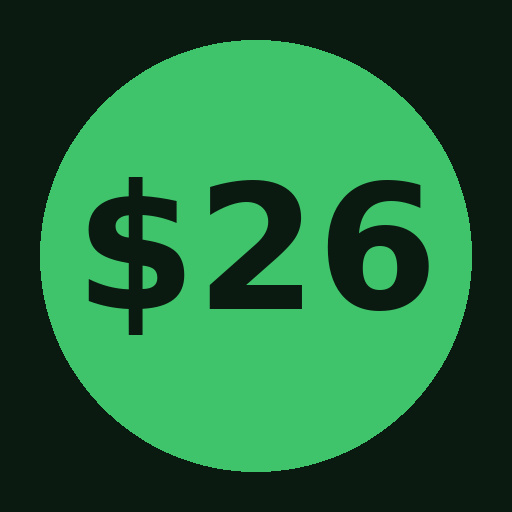
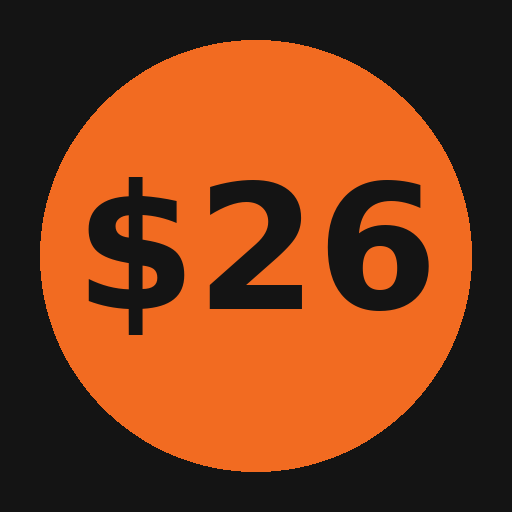
Retheme to RTO 4 U orange and charcoal
Claude-Session: https://claude.ai/code/session_01FVeAXAih2xzXBwg2R87W71

diff --git a/public/index.html b/public/index.html
@@ -8,8 +8,8 @@
 <link rel="icon" href="dive-logo.png">
 <style>
 :root{
-  --bg:#0d1a12; --panel:#14261b; --panel2:#1a3123; --line:#25402f;
-  --ink:#eef5ef; --muted:#9db3a3; --green:#4cc36a; --red:#ff6b5e; --gold:#f2c14e;
+  --bg:#141414; --panel:#1f1f1f; --panel2:#2a2a2a; --line:#383838;
+  --ink:#f4f1ed; --muted:#a8a29a; --green:#f26b21; --red:#ff6b5e; --gold:#f2c14e;
   --radius:14px;
 }
 *{box-sizing:border-box}
@@ -25,7 +25,7 @@ h1{margin:0;font-size:24px;letter-spacing:.2px}
 .stat span{color:var(--muted);font-size:12px}
 nav{display:flex;gap:6px;position:sticky;top:0;background:var(--bg);padding:8px 0;z-index:5;overflow-x:auto}
 nav button{flex:1;min-width:84px;background:var(--panel);color:var(--muted);border:1px solid var(--line);border-radius:999px;padding:9px 12px;font:inherit;font-weight:600;cursor:pointer}
-nav button.on{background:var(--green);color:#06210f;border-color:var(--green)}
+nav button.on{background:var(--green);color:#1a0b02;border-color:var(--green)}
 .sortbar{display:flex;gap:6px;align-items:center;margin:8px 0;flex-wrap:wrap;color:var(--muted);font-size:13px}
 .sortbar button{background:transparent;color:var(--muted);border:1px solid var(--line);border-radius:8px;padding:5px 9px;font:inherit;cursor:pointer}
 .sortbar button.on{color:var(--ink);border-color:var(--green)}
@@ -51,7 +51,7 @@ nav button.on{background:var(--green);color:#06210f;border-color:var(--green)}
 .foot{display:grid;grid-template-columns:repeat(3,1fr);gap:8px;margin-top:10px;border-top:1px solid var(--line);padding-top:12px}
 .foot div{font-size:12px;color:var(--muted)}
 .foot b{display:block;color:var(--ink);font-size:16px}
-.pos{color:var(--green)!important}.neg{color:var(--red)!important}
+.pos{color:#4cc36a!important}.neg{color:var(--red)!important}
 .pill{display:inline-block;font-size:12px;padding:2px 8px;border-radius:999px;background:var(--panel2);color:var(--muted);margin-top:8px}
 table{width:100%;border-collapse:collapse;font-size:13.5px}
 th,td{padding:8px 6px;text-align:right;border-bottom:1px solid var(--line);white-space:nowrap}
@@ -93,16 +93,16 @@ table.ls td:first-child,table.ls th:first-child{text-align:left;font-weight:700}
 .gl.in{color:var(--ink)}
 .gl .liveTag{color:var(--red);font-weight:700;margin-right:6px}
 @media (min-width:700px){.stats{grid-template-columns:repeat(6,1fr)}}
-.dl{margin-top:10px;background:var(--panel2);color:#fff;border:1px solid #2d4a37;border-radius:999px;padding:8px 14px;font:600 14px inherit;cursor:pointer}
+.dl{margin-top:10px;background:var(--panel2);color:#fff;border:1px solid #4a4a4a;border-radius:999px;padding:8px 14px;font:600 14px inherit;cursor:pointer}
 [hidden]{display:none!important}
-.ibar{position:fixed;left:12px;right:12px;bottom:calc(12px + env(safe-area-inset-bottom));z-index:50;background:#173a24;border:1px solid #3fc46b;border-radius:14px;padding:12px 14px;display:flex;gap:10px;align-items:center;box-shadow:0 6px 24px #0008}
-.ibar span{flex:1;font-size:14px}.ibar button{background:#3fc46b;color:#0b1a10;border:0;border-radius:999px;padding:8px 14px;font:700 14px inherit;cursor:pointer}.ibar button.x{background:none;color:#fff;padding:8px}
+.ibar{position:fixed;left:12px;right:12px;bottom:calc(12px + env(safe-area-inset-bottom));z-index:50;background:#33200f;border:1px solid #f26b21;border-radius:14px;padding:12px 14px;display:flex;gap:10px;align-items:center;box-shadow:0 6px 24px #0008}
+.ibar span{flex:1;font-size:14px}.ibar button{background:#f26b21;color:#1a0b02;border:0;border-radius:999px;padding:8px 14px;font:700 14px inherit;cursor:pointer}.ibar button.x{background:none;color:#fff;padding:8px}
 .comb .row3{display:flex;flex-wrap:wrap;gap:4px 14px}.comb .row3 b{margin-left:4px}
-.team.comb{background:#173a24;border:1px solid #3fc46b55}
+.team.comb{background:#33200f;border:1px solid #f26b2166}
 </style>
 <link rel="manifest" href="manifest.webmanifest">
 <link rel="apple-touch-icon" href="icon-192.png">
-<meta name="theme-color" content="#0b1a10">
+<meta name="theme-color" content="#141414">
 <meta name="apple-mobile-web-app-capable" content="yes">
 <meta name="mobile-web-app-title" content="Calcutta">
 </head>
